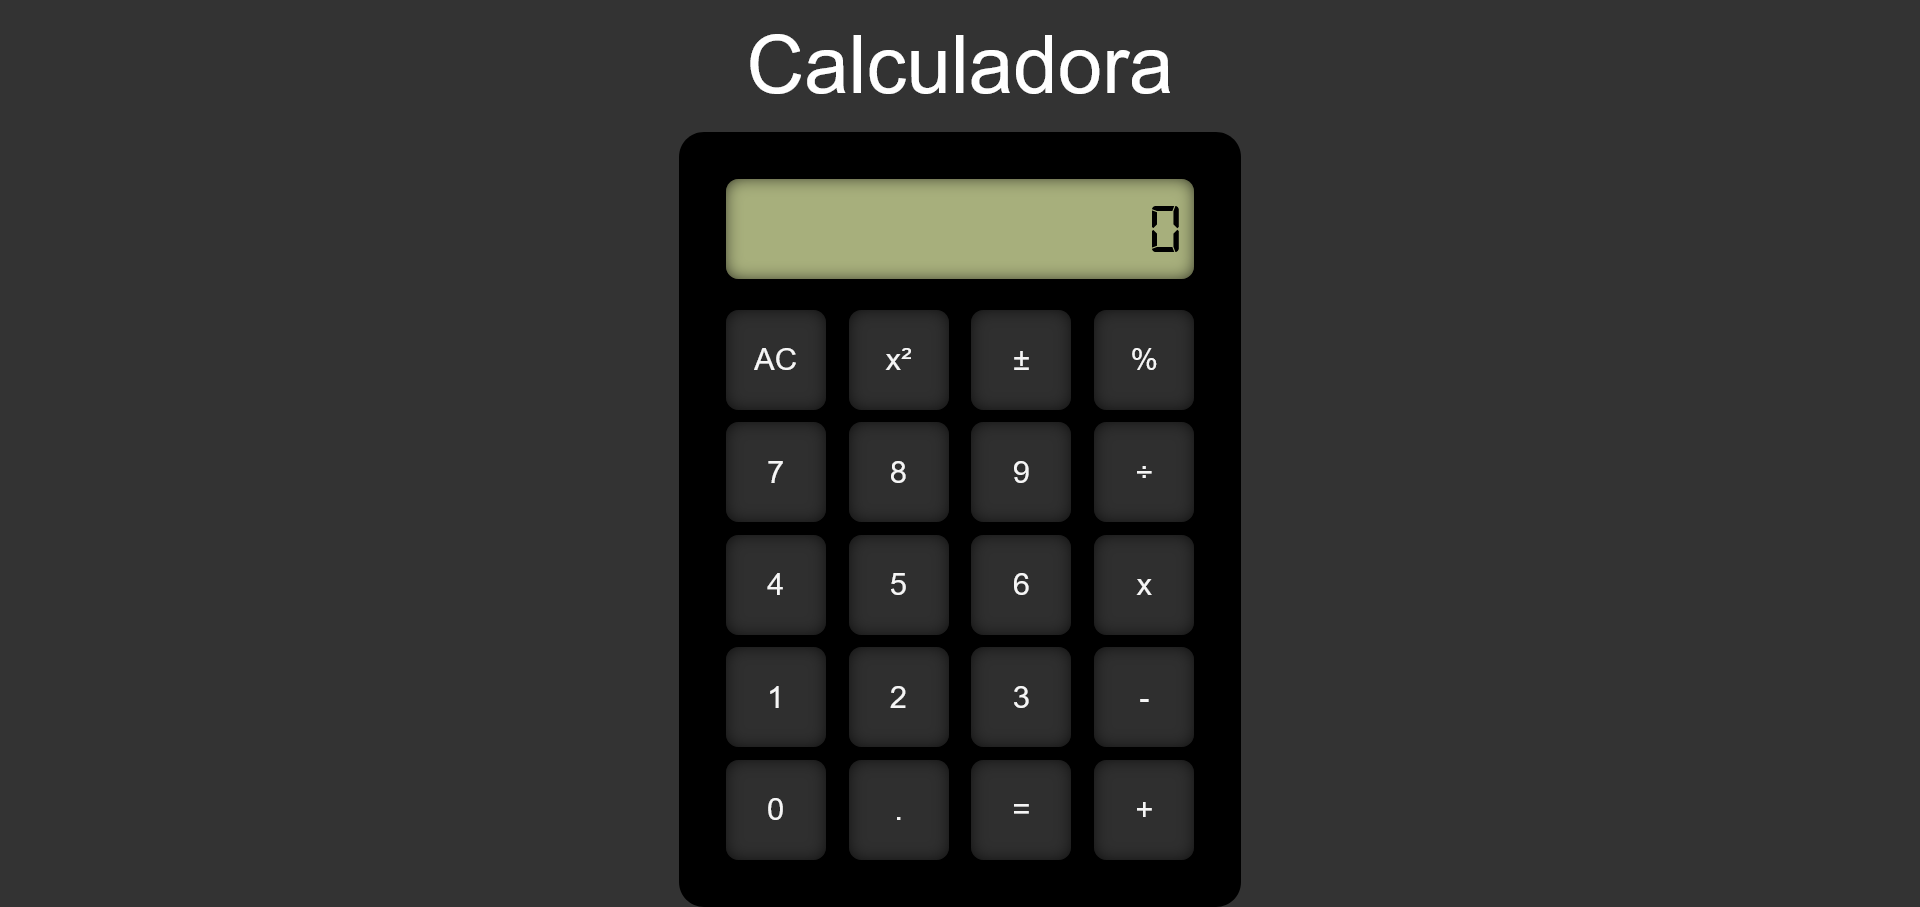
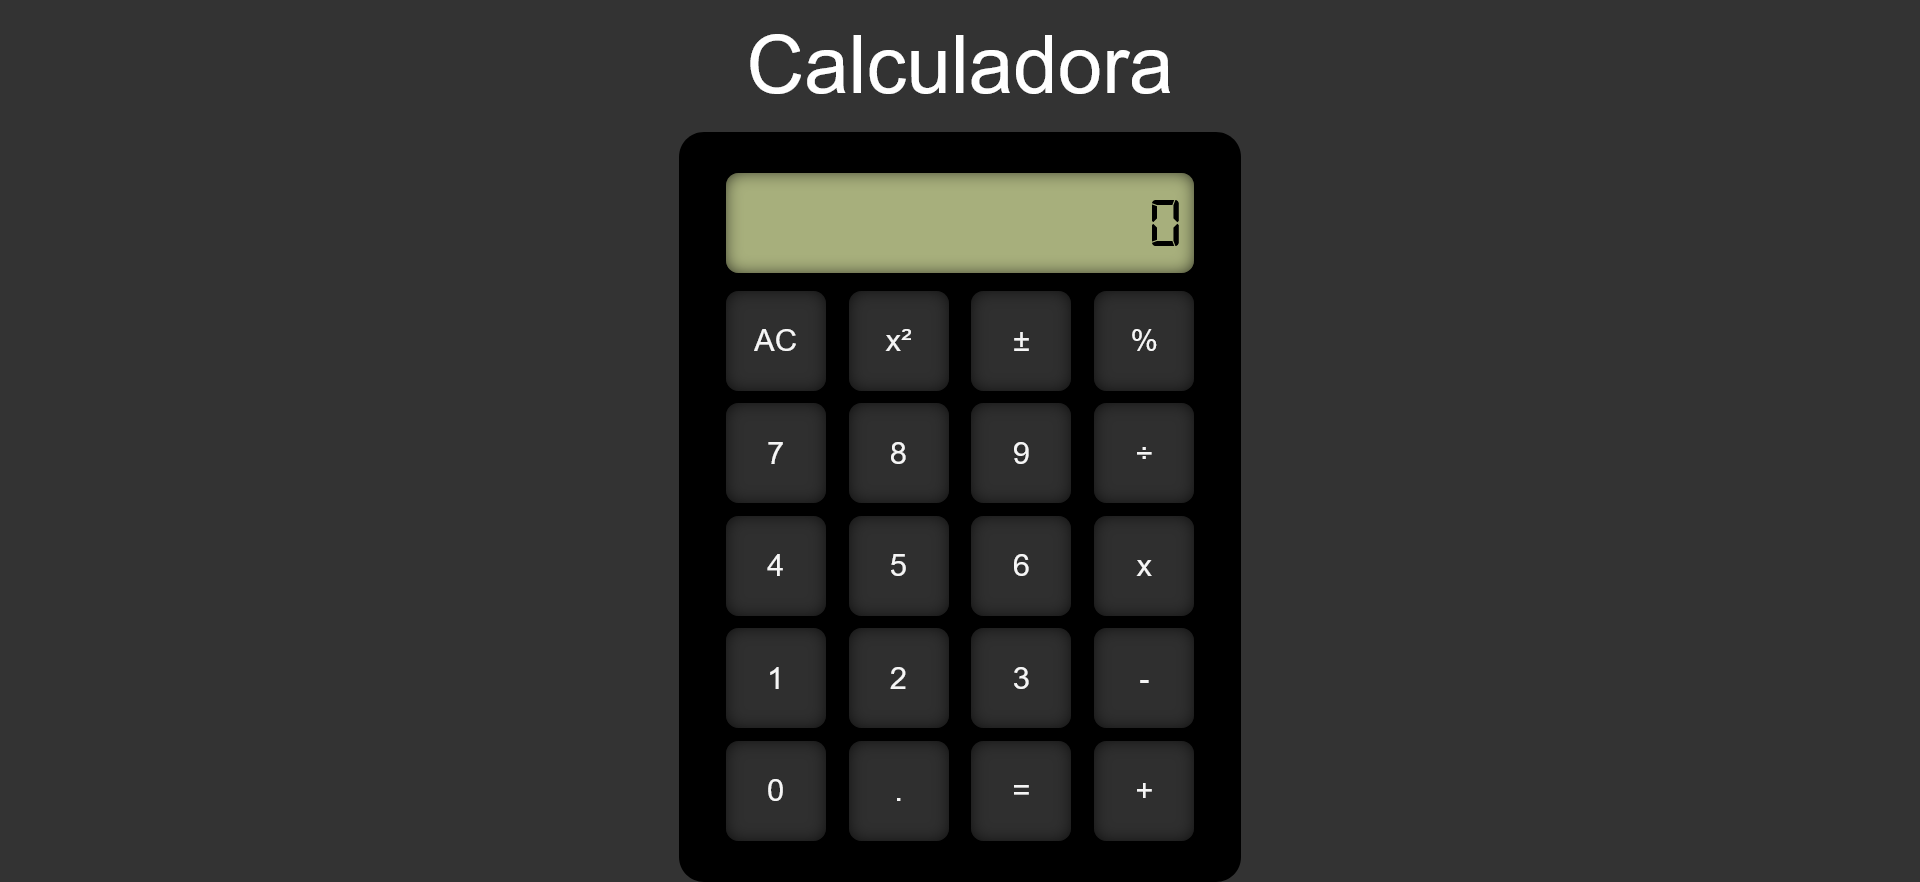
Correção do Section.jsx

diff --git a/src/components/Section/Section.jsx b/src/components/Section/Section.jsx
@@ -5,7 +5,7 @@ import { useState } from "react";
 
 const SectionStyle = styled.section`
     width: 450px;
-    height: 620px;
+    height: 600px;
     background-color: black;
     display: flex;
     flex-direction: column;
